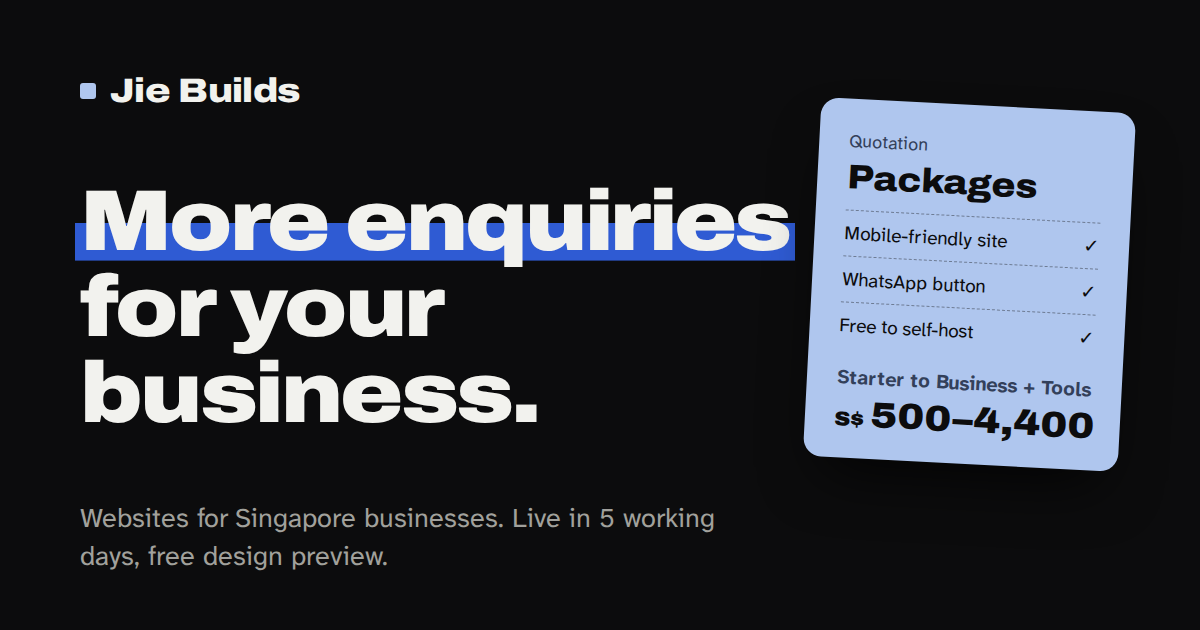
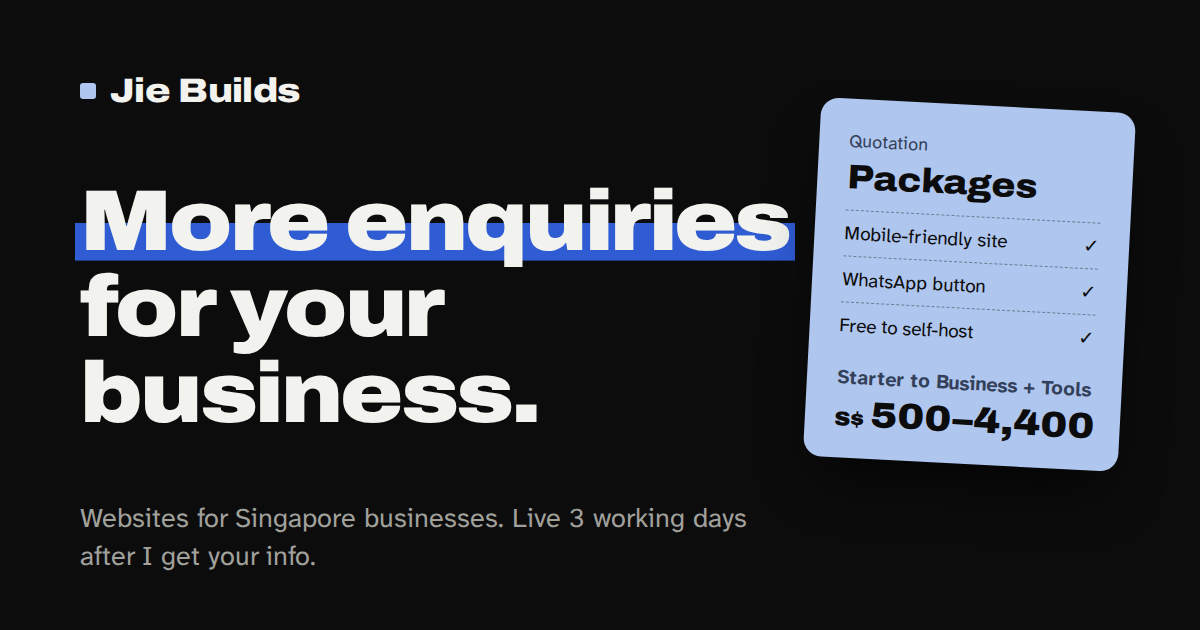
Change delivery time to 3 working days after all necessary info is received

Changed region(s): [[0.0617, 0.8746, 0.3392, 0.9048], [0.4625, 0.8143, 0.6167, 0.8444]]

diff --git a/plumber-website-design-singapore/index.html b/plumber-website-design-singapore/index.html
@@ -4,7 +4,7 @@
   <meta charset="utf-8">
   <meta name="viewport" content="width=device-width, initial-scale=1">
   <title>Plumber Website Design Singapore | Jie Builds</title>
-  <meta name="description" content="Websites for Singapore plumbers: your jobs, prices and a WhatsApp button with the problem already typed, live in 5 working days. S$500 to S$4,400, free to self-host.">
+  <meta name="description" content="Websites for Singapore plumbers: your jobs, prices and a WhatsApp button with the problem already typed, live 3 working days after I get your info. S$500 to S$4,400, free to self-host.">
   <link rel="canonical" href="https://jiebuilds.com/plumber-website-design-singapore/">
   <meta name="theme-color" content="#0C0C0D">
   <meta name="color-scheme" content="dark">
@@ -12,16 +12,16 @@
   <meta property="og:type" content="website">
   <meta property="og:site_name" content="Jie Builds">
   <meta property="og:title" content="Plumber Website Design Singapore | Jie Builds">
-  <meta property="og:description" content="Websites for Singapore plumbers: your jobs, prices and a WhatsApp button with the problem already typed, live in 5 working days. S$500 to S$4,400, free to self-host.">
+  <meta property="og:description" content="Websites for Singapore plumbers: your jobs, prices and a WhatsApp button with the problem already typed, live 3 working days after I get your info. S$500 to S$4,400, free to self-host.">
   <meta property="og:url" content="https://jiebuilds.com/plumber-website-design-singapore/">
-  <meta property="og:image" content="https://jiebuilds.com/assets/og-image.png?v=11">
+  <meta property="og:image" content="https://jiebuilds.com/assets/og-image.png?v=12">
   <meta property="og:image:width" content="1200">
   <meta property="og:image:height" content="630">
   <meta property="og:locale" content="en_SG">
   <meta name="twitter:card" content="summary_large_image">
   <meta name="twitter:title" content="Plumber Website Design Singapore | Jie Builds">
-  <meta name="twitter:description" content="Websites for Singapore plumbers: your jobs, prices and a WhatsApp button with the problem already typed, live in 5 working days. S$500 to S$4,400, free to self-host.">
-  <meta name="twitter:image" content="https://jiebuilds.com/assets/og-image.png?v=11">
+  <meta name="twitter:description" content="Websites for Singapore plumbers: your jobs, prices and a WhatsApp button with the problem already typed, live 3 working days after I get your info. S$500 to S$4,400, free to self-host.">
+  <meta name="twitter:image" content="https://jiebuilds.com/assets/og-image.png?v=12">
 
   <link rel="icon" href="/favicon.ico" sizes="48x48">
   <link rel="icon" href="/assets/favicon.svg?v=2" type="image/svg+xml">
@@ -40,12 +40,12 @@
         setTimeout(function () { if (!window.__siteReady) h.classList.remove("motion"); }, 3500);
       }
     })(document);
-    window.PAGE_ZH = { title: "新加坡水管生意网站设计 | 杰 Builds", desc: "为新加坡水管师傅制作网站：工作项目、价格和已写好问题的 WhatsApp 按钮，5 个工作天上线。S$500 至 S$4,400，可免费自行托管。" };
+    window.PAGE_ZH = { title: "新加坡水管生意网站设计 | 杰 Builds", desc: "为新加坡水管师傅制作网站：工作项目、价格和已写好问题的 WhatsApp 按钮，资料齐全后 3 个工作天上线。S$500 至 S$4,400，可免费自行托管。" };
   </script>
-  <link rel="stylesheet" href="/css/style.css?v=20261126j">
-  <script src="/js/config.js?v=20261126j" defer></script>
-  <script src="/js/i18n.js?v=20261126j" defer></script>
-  <script src="/js/site.js?v=20261126j" defer></script>
+  <link rel="stylesheet" href="/css/style.css?v=20261127a">
+  <script src="/js/config.js?v=20261127a" defer></script>
+  <script src="/js/i18n.js?v=20261127a" defer></script>
+  <script src="/js/site.js?v=20261127a" defer></script>
   <script type="application/ld+json">
   {
   "@context": "https://schema.org",
@@ -54,7 +54,7 @@
       "@type": "Service",
       "name": "Plumber Website Design Singapore",
       "serviceType": "Plumber Website Design Singapore",
-      "description": "Websites for Singapore plumbers: your jobs, prices and a WhatsApp button with the problem already typed, live in 5 working days. S$500 to S$4,400, free to self-host.",
+      "description": "Websites for Singapore plumbers: your jobs, prices and a WhatsApp button with the problem already typed, live 3 working days after I get your info. S$500 to S$4,400, free to self-host.",
       "url": "https://jiebuilds.com/plumber-website-design-singapore/",
       "areaServed": {
         "@type": "Country",
@@ -134,7 +134,7 @@
       <div class="wrap hero-grid">
         <div class="hero-copy">
           <h1 class="hero-title" data-zh="为新加坡水管生意制作网站，带来&lt;span class=&quot;mark&quot; data-mark&gt;更多询问&lt;/span&gt;。">Plumber website design in Singapore that brings <span class="mark" data-mark>more enquiries</span>.</h1>
-          <p class="hero-sub" data-load="2" data-zh="把您的工作项目和价格、工作照片，以及已经写好问题的 WhatsApp 按钮，放在一个您自己拥有的快速网站上。&lt;strong&gt;5 个工作天上线，可免费自行托管。&lt;/strong&gt;">Your jobs and prices, photos of your work and a WhatsApp button that already says what the problem is, on a fast website you own. <strong>Live in 5 working days. Free to self-host.</strong></p>
+          <p class="hero-sub" data-load="2" data-zh="把您的工作项目和价格、工作照片，以及已经写好问题的 WhatsApp 按钮，放在一个您自己拥有的快速网站上。&lt;strong&gt;资料齐全后 3 个工作天上线，可免费自行托管。&lt;/strong&gt;">Your jobs and prices, photos of your work and a WhatsApp button that already says what the problem is, on a fast website you own. <strong>Live in 3 working days after I get all the necessary info. Free to self-host.</strong></p>
           <div class="hero-actions" data-load="3">
             <a class="btn btn-big" data-wa="hero" data-wa-msg="Hi Jie, I run a plumbing business and I&#x27;d like a website. Can I get a free preview?" data-wa-msg-zh="您好杰，我做水管生意，想要一个网站。可以给我一个免费预览吗？" href="https://wa.me/6592778104" target="_blank" rel="noopener">
               <svg class="icon" aria-hidden="true"><use href="#i-wa"/></svg>
@@ -211,7 +211,7 @@
           <li data-reveal><b>WhatsApp me</b><span>Tell me what you do.</span></li>
           <li data-reveal><b>See a free preview</b><span>Your homepage, before you pay.</span></li>
           <li data-reveal><b>Pay 50%, I build</b><span>2 rounds of changes included.</span></li>
-          <li data-reveal><b>Live in 5 working days</b><span>Pay the other 50%. You own it.</span></li>
+          <li data-reveal><b>Live in 3 working days</b><span>After I get all the necessary info. Pay the other 50%. You own it.</span></li>
         </ol>
       </div>
     </section>

diff --git a/aircon-website-design-singapore/index.html b/aircon-website-design-singapore/index.html
@@ -4,7 +4,7 @@
   <meta charset="utf-8">
   <meta name="viewport" content="width=device-width, initial-scale=1">
   <title>Aircon Website Design Singapore | Jie Builds</title>
-  <meta name="description" content="Websites for Singapore aircon servicing companies: your prices, photos and a WhatsApp button, live in 5 working days. S$500 to S$4,400, free to self-host, free preview.">
+  <meta name="description" content="Websites for Singapore aircon servicing companies: your prices, photos and a WhatsApp button, live 3 working days after I get your info. S$500 to S$4,400, free to self-host, free preview.">
   <link rel="canonical" href="https://jiebuilds.com/aircon-website-design-singapore/">
   <meta name="theme-color" content="#0C0C0D">
   <meta name="color-scheme" content="dark">
@@ -12,16 +12,16 @@
   <meta property="og:type" content="website">
   <meta property="og:site_name" content="Jie Builds">
   <meta property="og:title" content="Aircon Website Design Singapore | Jie Builds">
-  <meta property="og:description" content="Websites for Singapore aircon servicing companies: your prices, photos and a WhatsApp button, live in 5 working days. S$500 to S$4,400, free to self-host, free preview.">
+  <meta property="og:description" content="Websites for Singapore aircon servicing companies: your prices, photos and a WhatsApp button, live 3 working days after I get your info. S$500 to S$4,400, free to self-host, free preview.">
   <meta property="og:url" content="https://jiebuilds.com/aircon-website-design-singapore/">
-  <meta property="og:image" content="https://jiebuilds.com/assets/og-image.png?v=11">
+  <meta property="og:image" content="https://jiebuilds.com/assets/og-image.png?v=12">
   <meta property="og:image:width" content="1200">
   <meta property="og:image:height" content="630">
   <meta property="og:locale" content="en_SG">
   <meta name="twitter:card" content="summary_large_image">
   <meta name="twitter:title" content="Aircon Website Design Singapore | Jie Builds">
-  <meta name="twitter:description" content="Websites for Singapore aircon servicing companies: your prices, photos and a WhatsApp button, live in 5 working days. S$500 to S$4,400, free to self-host, free preview.">
-  <meta name="twitter:image" content="https://jiebuilds.com/assets/og-image.png?v=11">
+  <meta name="twitter:description" content="Websites for Singapore aircon servicing companies: your prices, photos and a WhatsApp button, live 3 working days after I get your info. S$500 to S$4,400, free to self-host, free preview.">
+  <meta name="twitter:image" content="https://jiebuilds.com/assets/og-image.png?v=12">
 
   <link rel="icon" href="/favicon.ico" sizes="48x48">
   <link rel="icon" href="/assets/favicon.svg?v=2" type="image/svg+xml">
@@ -40,12 +40,12 @@
         setTimeout(function () { if (!window.__siteReady) h.classList.remove("motion"); }, 3500);
       }
     })(document);
-    window.PAGE_ZH = { title: "新加坡冷气生意网站设计 | 杰 Builds", desc: "为新加坡冷气保养公司制作网站：价格、照片和 WhatsApp 按钮，5 个工作天上线。S$500 至 S$4,400，可免费自行托管，免费预览。" };
+    window.PAGE_ZH = { title: "新加坡冷气生意网站设计 | 杰 Builds", desc: "为新加坡冷气保养公司制作网站：价格、照片和 WhatsApp 按钮，资料齐全后 3 个工作天上线。S$500 至 S$4,400，可免费自行托管，免费预览。" };
   </script>
-  <link rel="stylesheet" href="/css/style.css?v=20261126j">
-  <script src="/js/config.js?v=20261126j" defer></script>
-  <script src="/js/i18n.js?v=20261126j" defer></script>
-  <script src="/js/site.js?v=20261126j" defer></script>
+  <link rel="stylesheet" href="/css/style.css?v=20261127a">
+  <script src="/js/config.js?v=20261127a" defer></script>
+  <script src="/js/i18n.js?v=20261127a" defer></script>
+  <script src="/js/site.js?v=20261127a" defer></script>
   <script type="application/ld+json">
   {
   "@context": "https://schema.org",
@@ -54,7 +54,7 @@
       "@type": "Service",
       "name": "Aircon Website Design Singapore",
       "serviceType": "Aircon Website Design Singapore",
-      "description": "Websites for Singapore aircon servicing companies: your prices, photos and a WhatsApp button, live in 5 working days. S$500 to S$4,400, free to self-host, free preview.",
+      "description": "Websites for Singapore aircon servicing companies: your prices, photos and a WhatsApp button, live 3 working days after I get your info. S$500 to S$4,400, free to self-host, free preview.",
       "url": "https://jiebuilds.com/aircon-website-design-singapore/",
       "areaServed": {
         "@type": "Country",
@@ -134,7 +134,7 @@
       <div class="wrap hero-grid">
         <div class="hero-copy">
           <h1 class="hero-title" data-zh="为新加坡冷气生意制作网站，带来&lt;span class=&quot;mark&quot; data-mark&gt;更多询问&lt;/span&gt;。">Aircon website design in Singapore that brings <span class="mark" data-mark>more enquiries</span>.</h1>
-          <p class="hero-sub" data-load="2" data-zh="把保养、化学大清洗和加气的价格、您自己的照片和 WhatsApp 按钮，放在一个您自己拥有的快速网站上。&lt;strong&gt;5 个工作天上线，可免费自行托管。&lt;/strong&gt;">Your servicing, chemical overhaul and gas top-up prices, your own photos and a WhatsApp button, on a fast website you own. <strong>Live in 5 working days. Free to self-host.</strong></p>
+          <p class="hero-sub" data-load="2" data-zh="把保养、化学大清洗和加气的价格、您自己的照片和 WhatsApp 按钮，放在一个您自己拥有的快速网站上。&lt;strong&gt;资料齐全后 3 个工作天上线，可免费自行托管。&lt;/strong&gt;">Your servicing, chemical overhaul and gas top-up prices, your own photos and a WhatsApp button, on a fast website you own. <strong>Live in 3 working days after I get all the necessary info. Free to self-host.</strong></p>
           <div class="hero-actions" data-load="3">
             <a class="btn btn-big" data-wa="hero" data-wa-msg="Hi Jie, I run an aircon servicing business and I&#x27;d like a website. Can I get a free preview?" data-wa-msg-zh="您好杰，我做冷气保养生意，想要一个网站。可以给我一个免费预览吗？" href="https://wa.me/6592778104" target="_blank" rel="noopener">
               <svg class="icon" aria-hidden="true"><use href="#i-wa"/></svg>
@@ -217,7 +217,7 @@
           <li data-reveal><b>WhatsApp me</b><span>Tell me what you do.</span></li>
           <li data-reveal><b>See a free preview</b><span>Your homepage, before you pay.</span></li>
           <li data-reveal><b>Pay 50%, I build</b><span>2 rounds of changes included.</span></li>
-          <li data-reveal><b>Live in 5 working days</b><span>Pay the other 50%. You own it.</span></li>
+          <li data-reveal><b>Live in 3 working days</b><span>After I get all the necessary info. Pay the other 50%. You own it.</span></li>
         </ol>
       </div>
     </section>

diff --git a/index.html b/index.html
@@ -5,7 +5,7 @@
   <meta name="google-site-verification" content="2xer0mkSP5VUdhM2R_G-a2jgA3SitdXtqtMEsazaQb0" />
   <meta name="viewport" content="width=device-width, initial-scale=1">
   <title>Website Design Singapore for Businesses | Jie Builds</title>
-  <meta name="description" content="Websites for Singapore businesses, from aircon to renovation. Live in 5 working days, free to self-host, S$500 to S$4,400. Free design preview before you pay.">
+  <meta name="description" content="Websites for Singapore businesses. Live 3 working days after I get your info. S$500 to S$4,400, free to self-host. Free design preview before you pay.">
   <link rel="canonical" href="https://jiebuilds.com/">
   <meta name="theme-color" content="#0C0C0D">
   <meta name="color-scheme" content="dark">
@@ -14,17 +14,17 @@
   <meta property="og:type" content="website">
   <meta property="og:site_name" content="Jie Builds">
   <meta property="og:title" content="Websites for Singapore businesses | Jie Builds">
-  <meta property="og:description" content="Get more enquiries with a fast, professional website. Live in 5 working days, free to self-host, free design preview before you pay.">
+  <meta property="og:description" content="Get more enquiries with a fast, professional website. Live 3 working days after I get your info, free to self-host, free design preview.">
   <meta property="og:url" content="https://jiebuilds.com/">
-  <meta property="og:image" content="https://jiebuilds.com/assets/og-image.png?v=11">
+  <meta property="og:image" content="https://jiebuilds.com/assets/og-image.png?v=12">
   <meta property="og:image:width" content="1200">
   <meta property="og:image:height" content="630">
-  <meta property="og:image:alt" content="Jie Builds: websites for Singapore businesses. Live in 5 working days.">
+  <meta property="og:image:alt" content="Jie Builds: websites for Singapore businesses. Live 3 working days after I get your info.">
   <meta property="og:locale" content="en_SG">
   <meta name="twitter:card" content="summary_large_image">
   <meta name="twitter:title" content="Websites for Singapore businesses | Jie Builds">
-  <meta name="twitter:description" content="Get more enquiries with a fast, professional website. Live in 5 working days, free to self-host.">
-  <meta name="twitter:image" content="https://jiebuilds.com/assets/og-image.png?v=11">
+  <meta name="twitter:description" content="Get more enquiries with a fast, professional website. Live 3 working days after I get your info, free to self-host.">
+  <meta name="twitter:image" content="https://jiebuilds.com/assets/og-image.png?v=12">
 
   <link rel="icon" href="/favicon.ico" sizes="48x48">
   <link rel="icon" href="assets/favicon.svg?v=2" type="image/svg+xml">
@@ -52,13 +52,13 @@
       }
     })(document);
   </script>
-  <link rel="stylesheet" href="css/style.css?v=20261126j">
+  <link rel="stylesheet" href="css/style.css?v=20261127a">
 
   <!-- Settings first (prices, WhatsApp, Pixel ID), then site behaviour -->
-  <script src="js/config.js?v=20261126j" defer></script>
-  <script src="js/i18n.js?v=20261126j" defer></script>
-  <script src="js/intro.js?v=20261126j" defer></script>
-  <script src="js/site.js?v=20261126j" defer></script>
+  <script src="js/config.js?v=20261127a" defer></script>
+  <script src="js/i18n.js?v=20261127a" defer></script>
+  <script src="js/intro.js?v=20261127a" defer></script>
+  <script src="js/site.js?v=20261127a" defer></script>
 
   <script type="application/ld+json">
   {
@@ -67,7 +67,7 @@
     "name": "Jie Builds",
     "description": "Websites, landing pages, chatbots and automations for businesses in Singapore, including aircon, plumbing and renovation.",
     "url": "https://jiebuilds.com/",
-    "image": "https://jiebuilds.com/assets/og-image.png?v=11",
+    "image": "https://jiebuilds.com/assets/og-image.png?v=12",
     "telephone": "+6592778104",
     "priceRange": "S$500-S$4400",
     "areaServed": { "@type": "Country", "name": "Singapore" },
@@ -157,7 +157,7 @@
         <div class="hero-copy">
           <a class="hero-proof" href="#work"><span class="hero-proof-dot" aria-hidden="true"></span><span class="hero-proof-text">My work</span><span aria-hidden="true">→</span></a>
           <h1 class="hero-title" data-split><span class="mark" data-mark>More enquiries</span> for your business.</h1>
-          <p class="hero-sub" data-load="2">Websites for Singapore businesses, from aircon and plumbing to renovation, with your prices and WhatsApp one tap away. <strong>Live in 5 working days. Free to self-host.</strong></p>
+          <p class="hero-sub" data-load="2">Websites for Singapore businesses, from aircon and plumbing to renovation, with your prices and WhatsApp one tap away. <strong>Live in 3 working days after I get all the necessary info. Free to self-host.</strong></p>
           <div class="hero-actions" data-load="3">
             <a class="btn btn-big" data-wa="hero" href="https://wa.me/6592778104" target="_blank" rel="noopener">
               <svg class="icon" aria-hidden="true"><use href="#i-wa"/></svg>
@@ -311,7 +311,7 @@
           <li data-reveal><b>WhatsApp me</b><span>Tell me what you do.</span></li>
           <li data-reveal><b>See a free preview</b><span>Your homepage, before you pay.</span></li>
           <li data-reveal><b>Pay 50%, I build</b><span>2 rounds of changes included.</span></li>
-          <li data-reveal><b>Live in 5 working days</b><span>Pay the other 50%. You own it.</span></li>
+          <li data-reveal><b>Live in 3 working days</b><span>After I get all the necessary info. Pay the other 50%. You own it.</span></li>
         </ol>
       </div>
     </section>
@@ -337,7 +337,7 @@
         <div class="faq-list" data-stagger>
           <details data-reveal>
             <summary>What do I need to give you?</summary>
-            <div class="faq-a"><p>Your business name, services, areas, rough prices and phone photos of your work. No logo? I'll set your name in clean text. Not sure what to write? I'll help on WhatsApp. Once I have it, you're live in 5 working days.</p></div>
+            <div class="faq-a"><p>Your business name, services, areas, rough prices and phone photos of your work. No logo? I'll set your name in clean text. Not sure what to write? I'll help on WhatsApp. Once I have all the necessary info, you're live in 3 working days.</p></div>
           </details>
           <details data-reveal>
             <summary>How do I pay?</summary>

diff --git a/js/i18n.js b/js/i18n.js
@@ -47,7 +47,7 @@
   var PAGE = doc.body.getAttribute("data-page");   /* set on the aircon / plumber pages: they carry their own Chinese in data-zh */
   if (PAGE && window.PAGE_ZH) { doc.title = window.PAGE_ZH.title; A('meta[name="description"]', "content", window.PAGE_ZH.desc); }
   if (!PAGE) doc.title = "新加坡企业网站设计 | 杰 Builds";
-  if (!PAGE) A('meta[name="description"]', "content", "为新加坡各行各业的生意制作网站，从冷气到装修。5 个工作天上线，可免费自行托管，S$500 至 S$4,400。付款前先看免费设计预览。");
+  if (!PAGE) A('meta[name="description"]', "content", "为新加坡各行各业的生意制作网站，从冷气到装修。资料齐全后 3 个工作天上线，可免费自行托管，S$500 至 S$4,400。付款前先看免费设计预览。");
   Tn(".skip-link", "跳到内容");
   var hp = $(".hero-proof-text"); if (hp) hp.textContent = "我的作品";
   ["价格", "流程", "常见问题"].forEach(function (t, i) { Tn(".site-nav a", t, i); });
@@ -59,7 +59,7 @@
     h1.removeAttribute("data-split");
     h1.innerHTML = '为您的生意带来<span class="mark" data-mark>更多询问</span>。';
   }
-  if (!PAGE) H(".hero-sub", "为新加坡各行各业的生意制作网站，从冷气、水管到装修，价格和 WhatsApp 一键即达。<strong>5 个工作天上线，可免费自行托管。</strong>");
+  if (!PAGE) H(".hero-sub", "为新加坡各行各业的生意制作网站，从冷气、水管到装修，价格和 WhatsApp 一键即达。<strong>资料齐全后 3 个工作天上线，可免费自行托管。</strong>");
   /* intro: the 3D phone */
   A(".intro-sec", "aria-label", "网站如何为您带来询问");
   Tn(".intro-title", "为您带来询问的网站");
@@ -108,12 +108,12 @@
   }
   Tn("#how-title", "流程");
   [["WhatsApp 联系我", "告诉我您做什么生意。"], ["免费预览", "付款前，先看您的首页。"],
-   ["付 50%，我来制作", "包含 2 轮修改。"], ["5 个工作天上线", "付清另外 50%。网站归您所有。"]]
+   ["付 50%，我来制作", "包含 2 轮修改。"], ["3 个工作天上线", "从收齐所需资料起算。付清另外 50%。网站归您所有。"]]
     .forEach(function (p, i) { var li = $$(".how-steps li")[i]; if (li) { li.querySelector("b").textContent = p[0]; li.querySelector("span").textContent = p[1]; } });
 
   Tn("#faq-title", "常见问题");
   if (!PAGE)
-  [["我需要给您什么资料？", "您的公司名称、服务项目、服务地区、大概的价格，以及用手机拍的工作照片。没有 logo？我会用清晰的文字设置您的名称。不知道怎么写？我会在 WhatsApp 上帮您。资料齐了，5 个工作天内上线。"],
+  [["我需要给您什么资料？", "您的公司名称、服务项目、服务地区、大概的价格，以及用手机拍的工作照片。没有 logo？我会用清晰的文字设置您的名称。不知道怎么写？我会在 WhatsApp 上帮您。所需资料齐全后，3 个工作天内上线。"],
    ["怎么付款？", "用 PayNow。看过免费预览并确认后付 50%，网站完成、您满意后再付 50%。没有隐藏费用。"],
    ["网站归我所有吗？", "是的。付清尾款后，网站和所有文件都归您所有，以后也可以找别人接手。"],
    ["什么是免费的？托管和域名呢？", "网站归您所有，您可以按我的设置指南免费自行托管。代管是可选的：托管 每月 S$50（托管、SSL、基本备份，不含修改），或全面维护 每月 S$150（托管、更新、支持，每月含 2 次修改，全部由我处理）。您自己的域名，例如 yourbusiness.sg，也是可选的：每年约 S$20 到 S$60，用您的名字购买。我会帮您选择并连接。"],

diff --git a/connect-domain/index.html b/connect-domain/index.html
@@ -14,7 +14,7 @@
   <meta property="og:title" content="Host Your Site and Connect Your Domain | Jie Builds">
   <meta property="og:description" content="Step by step: put your website online free with Netlify, then connect your own Namecheap domain, turn on HTTPS and add it to Google Search Console.">
   <meta property="og:url" content="https://jiebuilds.com/connect-domain/">
-  <meta property="og:image" content="https://jiebuilds.com/assets/og-image.png?v=11">
+  <meta property="og:image" content="https://jiebuilds.com/assets/og-image.png?v=12">
   <meta property="og:image:width" content="1200">
   <meta property="og:image:height" content="630">
   <meta property="og:locale" content="en_SG">
@@ -39,10 +39,10 @@
     })(document);
     window.PAGE_ZH = { title: "把网站上线并连接域名 | 杰 Builds", desc: "一步一步：用 Netlify 免费把网站上线，再连接您在 Namecheap 买的域名、开启 HTTPS，并加入谷歌搜索控制台。" };
   </script>
-  <link rel="stylesheet" href="/css/style.css?v=20261126j">
-  <script src="/js/config.js?v=20261126j" defer></script>
-  <script src="/js/i18n.js?v=20261126j" defer></script>
-  <script src="/js/site.js?v=20261126j" defer></script>
+  <link rel="stylesheet" href="/css/style.css?v=20261127a">
+  <script src="/js/config.js?v=20261127a" defer></script>
+  <script src="/js/i18n.js?v=20261127a" defer></script>
+  <script src="/js/site.js?v=20261127a" defer></script>
 </head>
 <body data-page="guide">
   <svg class="sprite" width="0" height="0" aria-hidden="true" focusable="false">

diff --git a/js/intro.js b/js/intro.js
@@ -184,7 +184,7 @@
     var time = now.getHours() + ":" + ("0" + now.getMinutes()).slice(-2);
     var date = now.toLocaleDateString(loc, { weekday: "long", day: "numeric", month: "long" });
     var fonts = doc.fonts && doc.fonts.load ? doc.fonts.load('800 100px Archivo') : Promise.resolve();
-    Promise.all([import(new URL("js/phone3d.js?v=20261126j", doc.baseURI).href), fonts])
+    Promise.all([import(new URL("js/phone3d.js?v=20261127a", doc.baseURI).href), fonts])
       .then(function (r) {
         var scene = r[0].createPhone(canvas, { time: time, date: date });
         api = scene; size(); paint(shown === null ? progress() : shown);
